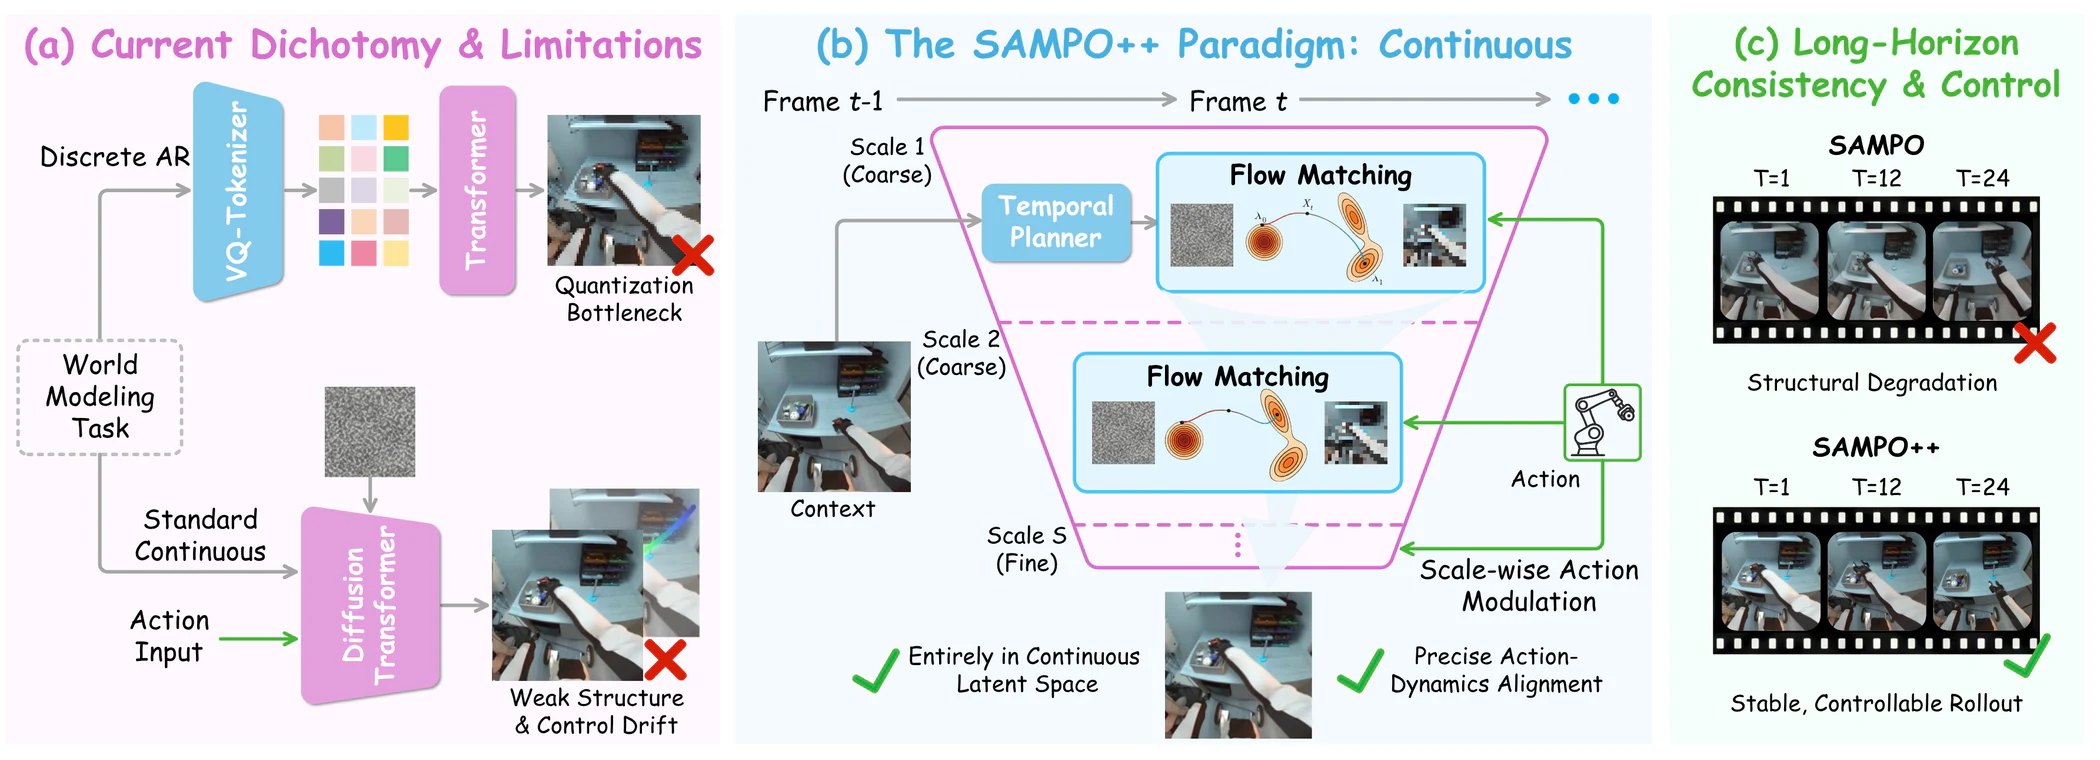
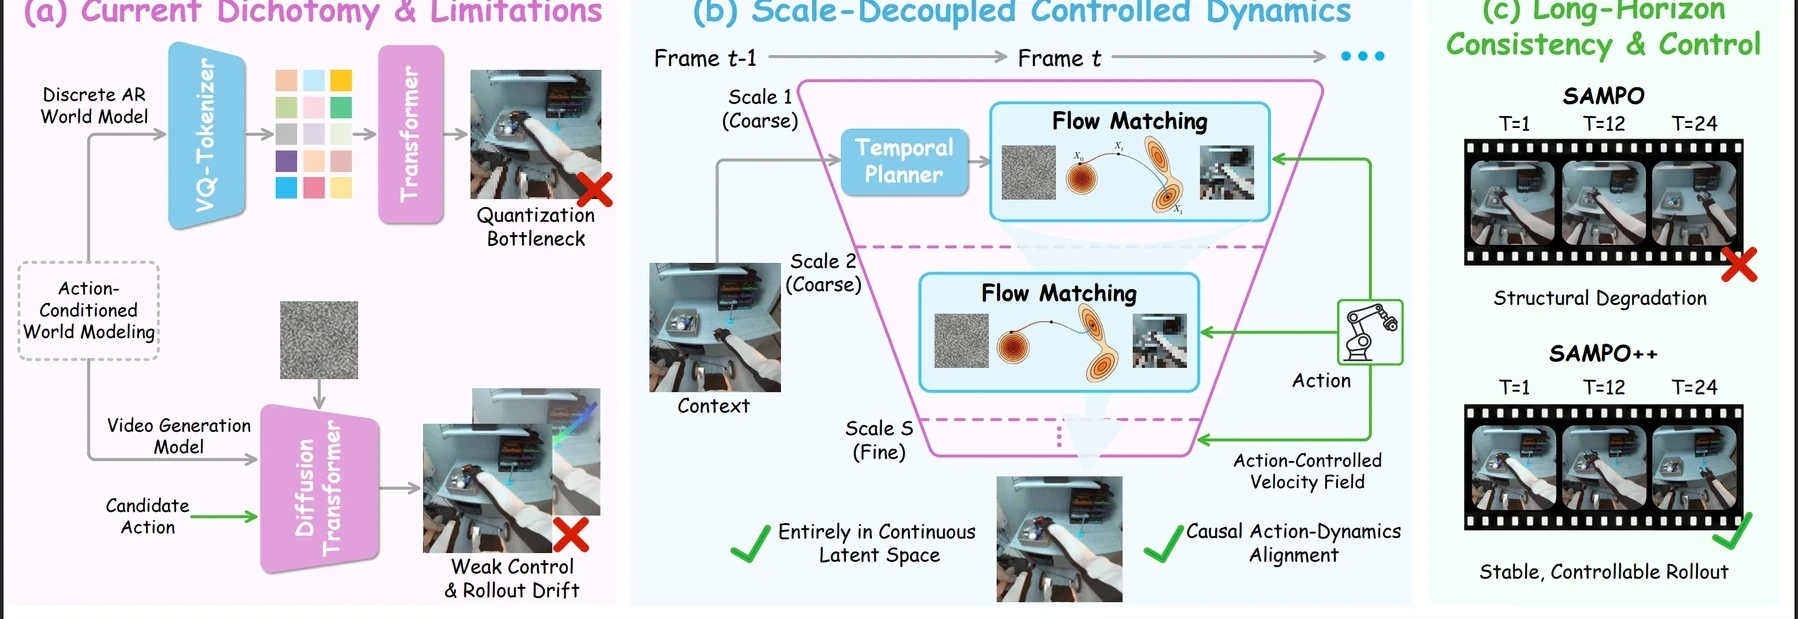
Deploy updated figures and VLA demos

Changed region(s): [[0.0, 0.0, 1.0, 1.0]]

diff --git a/index.html b/index.html
@@ -817,26 +817,28 @@
         </div>
         <div class="video-shell">
           <div class="episode-list" role="tablist" aria-label="VLA demo selector">
-            <button class="episode-button" type="button" data-episode="0" aria-selected="true">Demo 1 - eggplant basket</button>
-            <button class="episode-button" type="button" data-episode="1" aria-selected="false">Demo 2 - eggplant basket</button>
+            <button class="episode-button" type="button" data-episode="0" aria-selected="true">Demo 1 - VLA rollout</button>
+            <button class="episode-button" type="button" data-episode="1" aria-selected="false">Demo 2 - VLA rollout</button>
             <button class="episode-button" type="button" data-episode="2" aria-selected="false">Demo 3 - eggplant basket</button>
-            <button class="episode-button" type="button" data-episode="3" aria-selected="false">Demo 4 - spoon on towel</button>
-            <button class="episode-button" type="button" data-episode="4" aria-selected="false">Demo 5 - spoon on towel</button>
+            <button class="episode-button" type="button" data-episode="3" aria-selected="false">Demo 4 - eggplant basket</button>
+            <button class="episode-button" type="button" data-episode="4" aria-selected="false">Demo 5 - eggplant basket</button>
             <button class="episode-button" type="button" data-episode="5" aria-selected="false">Demo 6 - spoon on towel</button>
+            <button class="episode-button" type="button" data-episode="6" aria-selected="false">Demo 7 - spoon on towel</button>
+            <button class="episode-button" type="button" data-episode="7" aria-selected="false">Demo 8 - spoon on towel</button>
           </div>
           <article class="video-card">
             <div class="video-pair">
               <div class="video-panel">
-                <video id="real-video" controls muted playsinline preload="metadata" src="assets/vla/widowx_put_eggplant_in_basket/ep0019/ep0019_True.mp4"></video>
+                <video id="real-video" controls muted playsinline preload="metadata" src="assets/vla/pami_demos/demo1/real.mp4"></video>
                 <div class="video-label"><span>Real rollout</span><span id="real-name">Demo 1</span></div>
               </div>
               <div class="video-panel">
-                <video id="pred-video" controls muted playsinline preload="metadata" src="assets/vla/widowx_put_eggplant_in_basket/ep0019/pred_video_all.mp4"></video>
+                <video id="pred-video" controls muted playsinline preload="metadata" src="assets/vla/pami_demos/demo1/pred.mp4"></video>
                 <div class="video-label"><span>SAMPO++ predicted rollout</span><span id="pred-name">Demo 1</span></div>
               </div>
             </div>
             <div class="video-body">
-              <h3 id="episode-title">Demo 1 - put eggplant into yellow basket</h3>
+              <h3 id="episode-title">Demo 1 - VLA rollout</h3>
               <p id="episode-desc">Real execution is paired with the predicted future generated by SAMPO++ from VLA action prediction.</p>
             </div>
           </article>
@@ -900,38 +902,50 @@
   <script>
     const episodes = [
       {
-        title: "Demo 1 - put eggplant into yellow basket",
+        title: "Demo 1 - VLA rollout",
         name: "Demo 1",
-        real: "assets/vla/widowx_put_eggplant_in_basket/ep0019/ep0019_True.mp4",
-        pred: "assets/vla/widowx_put_eggplant_in_basket/ep0019/pred_video_all.mp4",
+        real: "assets/vla/pami_demos/demo1/real.mp4",
+        pred: "assets/vla/pami_demos/demo1/pred.mp4",
       },
       {
-        title: "Demo 2 - put eggplant into yellow basket",
+        title: "Demo 2 - VLA rollout",
         name: "Demo 2",
-        real: "assets/vla/widowx_put_eggplant_in_basket/ep0025/ep0025_True.mp4",
-        pred: "assets/vla/widowx_put_eggplant_in_basket/ep0025/pred_video_all.mp4",
+        real: "assets/vla/pami_demos/demo2/real.mp4",
+        pred: "assets/vla/pami_demos/demo2/pred.mp4",
       },
       {
         title: "Demo 3 - put eggplant into yellow basket",
         name: "Demo 3",
+        real: "assets/vla/widowx_put_eggplant_in_basket/ep0019/ep0019_True.mp4",
+        pred: "assets/vla/widowx_put_eggplant_in_basket/ep0019/pred_video_all.mp4",
+      },
+      {
+        title: "Demo 4 - put eggplant into yellow basket",
+        name: "Demo 4",
+        real: "assets/vla/widowx_put_eggplant_in_basket/ep0025/ep0025_True.mp4",
+        pred: "assets/vla/widowx_put_eggplant_in_basket/ep0025/pred_video_all.mp4",
+      },
+      {
+        title: "Demo 5 - put eggplant into yellow basket",
+        name: "Demo 5",
         real: "assets/vla/widowx_put_eggplant_in_basket/ep0030/ep0030_True.mp4",
         pred: "assets/vla/widowx_put_eggplant_in_basket/ep0030/pred_video_all.mp4",
       },
       {
-        title: "Demo 4 - put the spoon on the towel",
-        name: "Demo 4",
+        title: "Demo 6 - put the spoon on the towel",
+        name: "Demo 6",
         real: "assets/vla/widowx_spoon_on_towel/ep0026/ep0026_True.mp4",
         pred: "assets/vla/widowx_spoon_on_towel/ep0026/pred_video_all.mp4",
       },
       {
-        title: "Demo 5 - put the spoon on the towel",
-        name: "Demo 5",
+        title: "Demo 7 - put the spoon on the towel",
+        name: "Demo 7",
         real: "assets/vla/widowx_spoon_on_towel/ep0033/ep0033_True.mp4",
         pred: "assets/vla/widowx_spoon_on_towel/ep0033/pred_video_all.mp4",
       },
       {
-        title: "Demo 6 - put the spoon on the towel",
-        name: "Demo 6",
+        title: "Demo 8 - put the spoon on the towel",
+        name: "Demo 8",
         real: "assets/vla/widowx_spoon_on_towel/ep0038/ep0038_True.mp4",
         pred: "assets/vla/widowx_spoon_on_towel/ep0038/pred_video_all.mp4",
       },